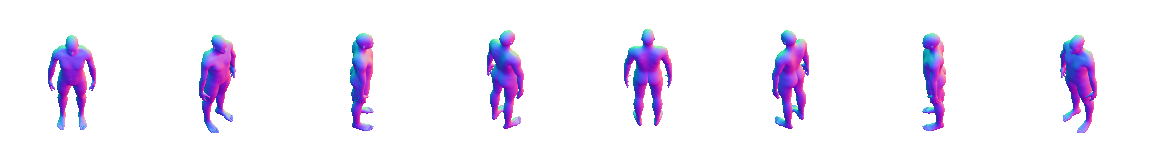
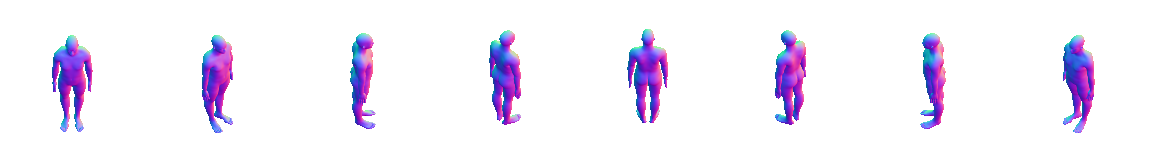
art: realistic round 3 samples (56/84/112 at 55, 84-equivalent at 45), shoulder-root label for inner lines - local, awaiting Lead QC

diff --git a/tools/pipeline/render_character.py b/tools/pipeline/render_character.py
@@ -205,15 +205,17 @@ PART_GROUPS = {  # flat emission colour -> bones whose summed vertex weight mark
 }
 PART_BODY = (0.0, 0.0, 1.0)
 PART_WEIGHT = 0.5
-PART_ROOT_CLEAR_M = 0.10  # arm vertices this close to the shoulder joint count as body: no seam at the root
+PART_ROOT = (1.0, 1.0, 1.0)  # the arm's root (shoulder cap): neither arm nor body, so no line either side
+PART_ROOT_CLEAR_M = 0.10  # arm vertices this close to the shoulder joint are root
 
 
 def apply_parts_pass() -> None:
     """Flat colour per body part (left arm red, right arm green, the rest blue) for the pixel post's
     inner lines (06 section 3: a line only where the silhouette would merge). Finger and hand
-    groups count towards their arm by name prefix; the shoulder cap (within PART_ROOT_CLEAR_M of
-    the arm's root joint, at rest) counts as body, so no line is drawn where the arm joins the torso
-    (Lead QC round 3). Raw view, no dither: labels, not colour."""
+    groups count towards their arm by name prefix. The shoulder cap (arm vertices within
+    PART_ROOT_CLEAR_M of the arm's root joint, at rest) is labelled root (white): lines are drawn only
+    where an arm meets the body, never at the root, which the round-3 "body" label turned into a
+    tick across the arm. Raw view, no dither: labels, not colour."""
     mat = bpy.data.materials.new("mercs_parts_pass")
     if mat.node_tree is None:
         mat.use_nodes = True
@@ -237,8 +239,8 @@ def apply_parts_pass() -> None:
             where = obj.matrix_world @ v.co
             for rgb, bones in PART_GROUPS.items():
                 w = sum(g.weight for g in v.groups if index_of[g.group].startswith(bones))
-                if w >= PART_WEIGHT and (where - roots[rgb]).length >= PART_ROOT_CLEAR_M:
-                    colour = rgb
+                if w >= PART_WEIGHT:
+                    colour = rgb if (where - roots[rgb]).length >= PART_ROOT_CLEAR_M else PART_ROOT
             layer.data[v.index].color = (*colour, 1.0)
         obj.data.materials.clear()
         obj.data.materials.append(mat)

diff --git a/tools/pipeline/pixelate.py b/tools/pipeline/pixelate.py
@@ -206,6 +206,8 @@ def outline(img: Image, colour: tuple[int, int, int]) -> Image:
 
 
 BODY_LABEL = 2  # parts pass: channel 0 = left arm, 1 = right arm, 2 = the rest of the body
+ROOT_LABEL = 3  # white in the parts pass: an arm's root (shoulder cap), never lined
+WHITE_MIN = 128
 
 
 def part_labels(parts: Image, scale: int, threshold: int) -> list[list[int]]:
@@ -214,12 +216,15 @@ def part_labels(parts: Image, scale: int, threshold: int) -> list[list[int]]:
     labels = [[-1] * w for _ in range(h)]
     for oy in range(h):
         for ox in range(w):
-            votes = [0, 0, 0]
+            votes = [0, 0, 0, 0]
             for y in range(oy * scale, oy * scale + scale):
                 for x in range(ox * scale, ox * scale + scale):
                     r, g, b, a = parts.get(x, y)
                     if a >= threshold:
-                        votes[(r, g, b).index(max(r, g, b))] += 1
+                        if min(r, g, b) >= WHITE_MIN:
+                            votes[ROOT_LABEL] += 1
+                        else:
+                            votes[(r, g, b).index(max(r, g, b))] += 1
             if any(votes):
                 labels[oy][ox] = votes.index(max(votes))
     return labels
@@ -232,7 +237,7 @@ def inner_lines(img: Image, labels: list[list[int]], colour: tuple[int, int, int
     out.rgba[:] = img.rgba
     for y in range(img.height):
         for x in range(img.width):
-            if img.get(x, y)[3] == 0 or labels[y][x] in (-1, BODY_LABEL):
+            if img.get(x, y)[3] == 0 or labels[y][x] in (-1, BODY_LABEL, ROOT_LABEL):
                 continue
             for dx, dy in NEIGHBOURS_4:
                 nx, ny = x + dx, y + dy

diff --git a/agent-handoffs/art.md b/agent-handoffs/art.md
@@ -3,42 +3,33 @@ Start from this file, CLAUDE.md, your brief (`agent-briefs/ART_AGENT.md`), and t
 Instructions come from the lead session ("Claude2: MERCS Lead" / "MERCS BOSS"). Director rule 2026-10-08:
 every sheet goes to the Lead for QC first; only passing sheets reach the director (Lead presents).
 
-## State: paused (director, 2026-10-09): realistic QC round 2 fixes + 84 px @45 deg sample pending
-Start nothing new until the Lead or director resumes Art. Work is local on claude/art-qc-c55; do not push or open a PR.
+## State: awaiting Lead QC (realistic round 3 samples sent 2026-10-09)
 ## Task
 Director 2026-10-09: proportion C DROPPED; realistic proportions, more pixels per merc. Samples for the Lead's QC
-(then the director): realistic average_m rest, pitch 55, at 56 / 84 / 112 px, plus 84 px rendered at sprite pitch 45.
+(then the director): realistic average_m rest at pitch 55 in 56 / 84 / 112 px, plus 84 px at sprite pitch 45 with
+the same px_per_m (103.56 px tall) for the director's sprite-pitch question.
 ## Branch and commit
-claude/art-qc-c55, worktree ../MERCS-wt/art-qc, local commits only (last: this handoff). Not pushed, no PR.
+claude/art-qc-c55, worktree ../MERCS-wt/art-qc, local commits only. Not pushed, no PR until the director picks.
 ## Files I own right now
-tools/pipeline/ (build_body.py, bodies/bodies.json + average_m.blend, rig_contract.json, render_character.py,
-pixelate.py/.json, contact_sheet.py); docs/audits/realistic_density/ (config/, sheets/, review PNGs = round-1 samples).
+tools/pipeline/ (build_body.py contour after rig hash; bodies.json; average_m.blend; rig_contract.json;
+render_character.py parts pass with root label, recentre, twist; pixelate.py despeckle/outline/inner lines with root;
+pixelate.json skin-only body; contact_sheet.py --camera); docs/audits/realistic_density/ (config/, sheets/, PNGs).
 tools/pipeline/proportions.json still holds C (shared default); replace only on a director pick.
-## Unfinished changes (Lead QC round 3 on the realistic samples, 2026-10-09)
-DONE, not yet rendered or checked:
-- (1) shoulders: clavicles ~6 deg lower (sample config); bodies.json contour adds shoulder-muscle-decr 0.4 L/R,
-  torso-muscle-dorsi-decr 0.4, neck-scale-vert-incr 0.3; body rebuilt: rig hash 17b2aa42 unchanged,
-  height_after_contour 1.7959 (render refits to 1.78).
-- (2) arms close, elbows slightly back, hands + every finger aimed down (fingers together), thumbs along index
-  (docs/audits/realistic_density/config/proportions_realistic.json). New bone_twist_deg (render_character.py
-  twist_bones): hand roll is 0 for now; measure palm direction in a 0 deg side render, then set it so palms face thighs.
-- (3) parts pass: arm vertices within 0.10 m of the shoulder joint count as body (no seam at the arm root).
-- (4) legs straight, ankles ~0.12 m apart, toes out 13 deg.  (5) buttocks 0.3.
-TO DO on resume:
-1. Render realistic at 0 deg side-on (camera from scratch cam_side: pitch 0, 96 cell, pivot 48,88, height 72);
-   check hands/palms (set bone_twist_deg), feet (E/W far toes not a stub), shoulders, neck sliver in S.
-2. Re-render h56/h84/h112 (color, normal, parts), pixelate with --parts, pack with --stem, validate --camera=,
-   contact sheets with --camera (1x and x4 as separate files).
-3. Item 6: 84 px at sprite pitch 45 with the SAME px_per_m as 55/84: char_height_px = 84*cos45/cos55 = 103.55,
-   cell ~176, pivot ~(88,152); Lead captures it with --pitch=55 --height=84. Label it.
-4. Send the Lead the paths (1x and x4 per density + the 45 deg sample), self-review first (art-qa-critic).
+## Unfinished changes
+Waiting on Lead QC, then the director's two picks (density; sprite pitch 55 vs 45). After the picks:
+camera_rig.json + proportions.json (realistic pose from config/proportions_realistic.json), regenerate
+tests/fixtures/pipeline (render_4x, _normal, NEW render_4x_parts in the rebuild test, sheets/good, make_bad_sheets.py),
+suites + lints + one capture, #39 publish under assets/ with a register row, PR with Board and log.
+Delete docs/audits/qc_c55/ (obsolete C evidence) before the PR.
 ## Evidence so far
-- Round 1 realistic samples validate; Lead confirmed engine path (#44 --logical capture), no mixels, mud gone.
-- Lead round 3 defects: gorilla shoulders/head sunk; claw hands, flared elbows; deltoid seam lines; far foot reads
-  kicked back (NE/NW) and toe stub (E/W).
+- Round 3: four sheets validate; 0 deg side render: upright, palms face thighs, fingers together, feet natural.
+- Root-seam fix verified at x8 with label map (only vertical inner-arm lines remain).
+- build_body --check: RIG_CONTRACT_OK (17b2aa42) with contour + shoulder/neck targets.
 - test_pipeline rebuild fails until fixtures are regenerated after a pick (expected).
+## Attempts (for the fix-loop rule)
+- Root seam: (1) shoulder cap labelled body = tick across the arm; (2) separate root label = fixed.
 ## Open decisions
-- Director (via Lead): density 56 / 84 / 112; sprite pitch 55 vs 45 in a 55 deg world; placeholder head/hair layer.
+- Director (via Lead): density 56 / 84 / 112; sprite pitch 55 vs 45; placeholder head/hair layer; softer elbows?
 ## Running jobs
 None. Mixamo: 10 clips in D:\MERCS-vault\clips\mixamo\ with SOURCES.md; not yet retargeted.
 ## Rules learnt the hard way (keep under 10 lines)
